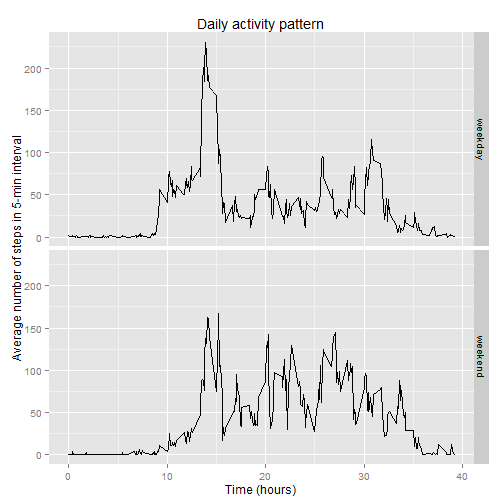
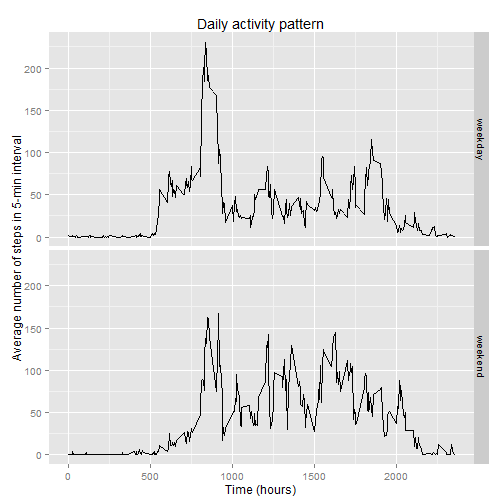
test

diff --git a/PA1_template.html b/PA1_template.html
@@ -248,7 +248,7 @@ files
 <pre><code class="r">dataActivity$date &lt;- as.Date(dataActivity$date, format = &quot;%Y-%m-%d&quot;)
 </code></pre>
 
-<p>####For convenience&#39;s sake, attach the data</p>
+<p>####Attach the data</p>
 
 <pre><code class="r">attach(dataActivity)
 </code></pre>
@@ -256,6 +256,14 @@ files
 <pre><code>## The following object is masked _by_ .GlobalEnv:
 ## 
 ##     interval
+## 
+## The following objects are masked from dataActivity (pos = 3):
+## 
+##     date, interval, steps
+## 
+## The following objects are masked from dataActivity (pos = 4):
+## 
+##     date, interval, steps
 ## 
 ## The following objects are masked from dataActivity (pos = 5):
 ## 
@@ -265,15 +273,23 @@ files
 ## 
 ##     date, interval, steps
 ## 
-## The following objects are masked from dataActivity (pos = 7):
-## 
-##     date, interval, steps
-## 
-## The following objects are masked from dataActivity (pos = 8):
+## The following objects are masked from dataActivity (pos = 9):
 ## 
 ##     date, interval, steps
 ## 
 ## The following objects are masked from dataActivity (pos = 10):
+## 
+##     date, interval, steps
+## 
+## The following objects are masked from dataActivity (pos = 11):
+## 
+##     date, interval, steps
+## 
+## The following objects are masked from dataActivity (pos = 12):
+## 
+##     date, interval, steps
+## 
+## The following objects are masked from dataActivity (pos = 14):
 ## 
 ##     date, interval, steps
 </code></pre>
@@ -319,11 +335,11 @@ files
 
 <p>####Time series plot (i.e. type = &ldquo;l&rdquo;) of the 5-minute interval (x-axis) and the average number of steps taken, averaged across all days (y-axis)</p>
 
-<pre><code class="r">hours &lt;- as.numeric(names(intervalave))/60
+<pre><code class="r">hours &lt;- as.numeric(names(intervalave))
 plot(hours, intervalave, type=&quot;l&quot;, xlab=&quot;Time (hours)&quot;, ylab=&quot;Average number of steps in 5-min interval&quot;, main=&quot;Daily activity pattern&quot;)
 </code></pre>
 
[2 lines of base64/hex data omitted]
 
 <p>####5-minute interval which contains the maximum number of steps on average across all the days</p>
 
@@ -349,6 +365,8 @@ na_number
 <p>#####The total number of missing values in dataset is 2304.</p>
 
 <p>####Imputing data</p>
+
+<p>#####The daily activity pattern can be used to impute these missing values. For every missing value in the orignial data set the average number of steps in that 5-minutes interval is used. This assumes that the person follows a daily routine.</p>
 
 <pre><code class="r">clean_data &lt;- transform(dataActivity, steps=ifelse(is.na(steps), intervalave, steps))
 </code></pre>
@@ -390,14 +408,14 @@ cleansteps &lt;- aggregate(clean_data$steps, by=list(interval=clean_data$interva
 <p>####Panel plots - A comparison between Weekdays and Weekends</p>
 
 <pre><code class="r">library(ggplot2)
-g &lt;- ggplot(cleansteps, aes(interval/60, x))
+g &lt;- ggplot(cleansteps, aes(interval, x))
 g + geom_line() + facet_grid(weekday ~ .) +
     labs(y=&quot;Average number of steps in 5-min interval&quot;) +
     labs(x=&quot;Time (hours)&quot;) +
     labs(title=&quot;Daily activity pattern&quot;)
 </code></pre>
 
[2 lines of base64/hex data omitted]
 
 </body>
 

diff --git a/PA1_template.md b/PA1_template.md
@@ -63,7 +63,7 @@ str(dataActivity)
 dataActivity$date <- as.Date(dataActivity$date, format = "%Y-%m-%d")
 ```
 
-####For convenience's sake, attach the data
+####Attach the data
 
 ```r
 attach(dataActivity)
@@ -74,6 +74,14 @@ attach(dataActivity)
 ## 
 ##     interval
 ## 
+## The following objects are masked from dataActivity (pos = 3):
+## 
+##     date, interval, steps
+## 
+## The following objects are masked from dataActivity (pos = 4):
+## 
+##     date, interval, steps
+## 
 ## The following objects are masked from dataActivity (pos = 5):
 ## 
 ##     date, interval, steps
@@ -82,15 +90,23 @@ attach(dataActivity)
 ## 
 ##     date, interval, steps
 ## 
-## The following objects are masked from dataActivity (pos = 7):
-## 
-##     date, interval, steps
-## 
-## The following objects are masked from dataActivity (pos = 8):
+## The following objects are masked from dataActivity (pos = 9):
 ## 
 ##     date, interval, steps
 ## 
 ## The following objects are masked from dataActivity (pos = 10):
+## 
+##     date, interval, steps
+## 
+## The following objects are masked from dataActivity (pos = 11):
+## 
+##     date, interval, steps
+## 
+## The following objects are masked from dataActivity (pos = 12):
+## 
+##     date, interval, steps
+## 
+## The following objects are masked from dataActivity (pos = 14):
 ## 
 ##     date, interval, steps
 ```
@@ -148,7 +164,7 @@ intervalave <- tapply(steps, interval, mean, na.rm = TRUE)
 ####Time series plot (i.e. type = "l") of the 5-minute interval (x-axis) and the average number of steps taken, averaged across all days (y-axis)
 
 ```r
-hours <- as.numeric(names(intervalave))/60
+hours <- as.numeric(names(intervalave))
 plot(hours, intervalave, type="l", xlab="Time (hours)", ylab="Average number of steps in 5-min interval", main="Daily activity pattern")
 ```
 
@@ -183,6 +199,8 @@ na_number
 
 
 ####Imputing data
+
+#####The daily activity pattern can be used to impute these missing values. For every missing value in the orignial data set the average number of steps in that 5-minutes interval is used. This assumes that the person follows a daily routine.
 
 ```r
 clean_data <- transform(dataActivity, steps=ifelse(is.na(steps), intervalave, steps))
@@ -233,7 +251,7 @@ cleansteps <- aggregate(clean_data$steps, by=list(interval=clean_data$interval, 
 
 ```r
 library(ggplot2)
-g <- ggplot(cleansteps, aes(interval/60, x))
+g <- ggplot(cleansteps, aes(interval, x))
 g + geom_line() + facet_grid(weekday ~ .) +
     labs(y="Average number of steps in 5-min interval") +
     labs(x="Time (hours)") +
